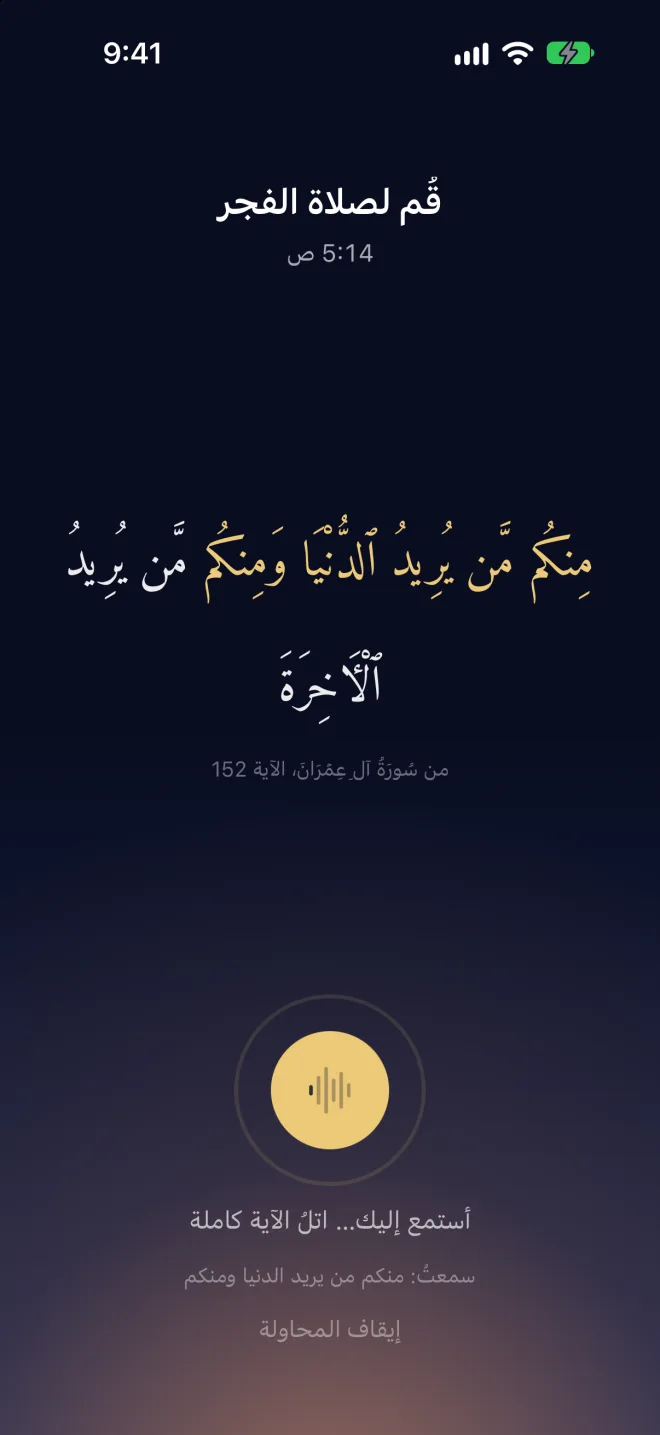
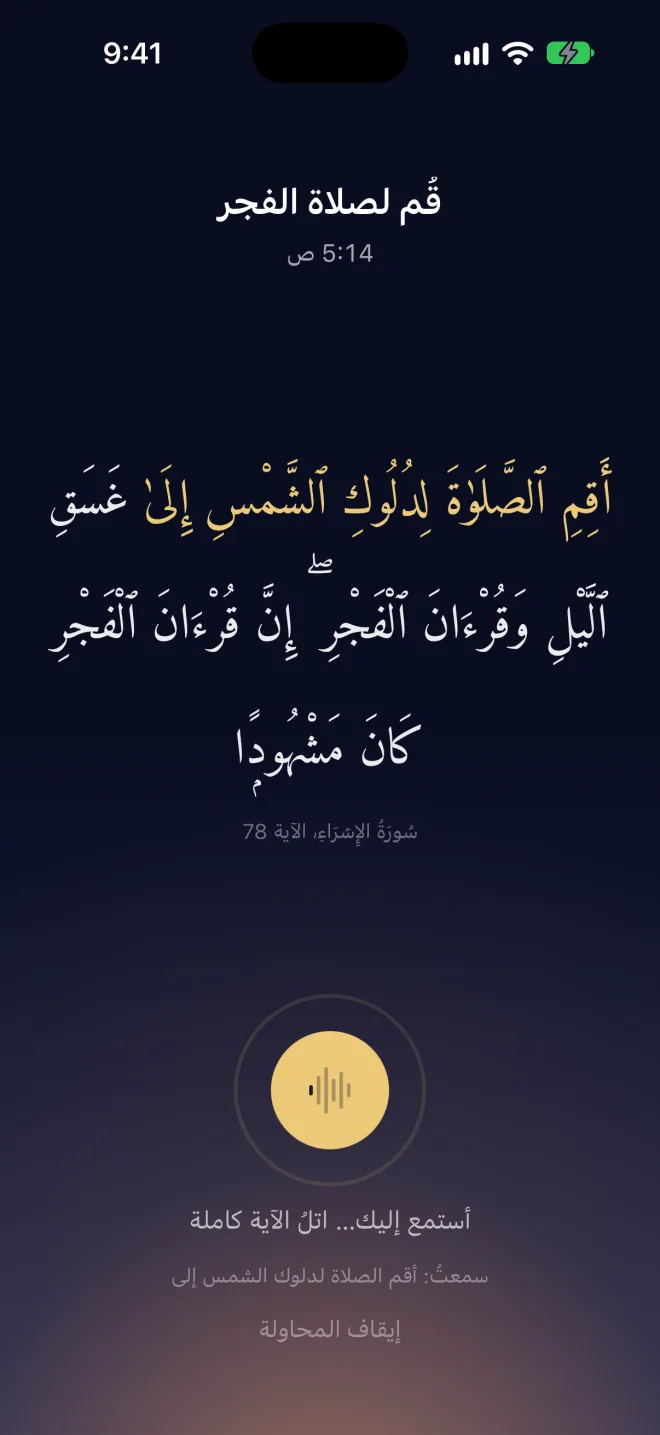
Show Al-Isra 78 in the alarm images and describe the wudu grace

diff --git a/support.html b/support.html
@@ -23,7 +23,7 @@
 <h3>كيف أغيّر طريقة حساب الوقت أو أعدّل الفجر بالدقائق؟</h3>
 <p>من إعدادات التطبيق، في قسم «وقت الفجر»: اختر «طريقة الحساب» المتّبعة في بلدك، أو عدّل وقت الفجر بالدقائق (حتى ١٥ دقيقة قبل أو بعد) ليوافق تقويم مسجدك.</p>
 <h3>كيف تعمل صورة السجّادة؟</h3>
-<p>صوّر سجّادة صلاتك مرة واحدة من الإعدادات لتُحفظ صورة مرجعية على هاتفك. إن تعذّرت التلاوة بعد ثلاث محاولات، يمكنك إيقاف المنبّه بتصوير سجّادتك، وتُقارَن الصورة بالمرجعية على الهاتف ثم تُهمَل.</p>
+<p>صوّر سجّادة صلاتك مرة واحدة من الإعدادات لتُحفظ صورة مرجعية على هاتفك. إن تعذّرت التلاوة بعد ثلاث محاولات، يمكنك إيقاف المنبّه بتصوير سجّادتك، وتُقارَن الصورة بالمرجعية على الهاتف ثم تُهمَل. وإن احتجت وقتًا لتقوم وتتوضّأ فاطلب «أمهلني خمس دقائق للوضوء»: يصمت المنبّه خمس دقائق مرة واحدة، ثم يعود إن لم تصوّر السجّادة.</p>
 <h3>لماذا يرنّ المنبّه مجدّدًا كل بضع دقائق؟</h3>
 <p>يُجدول التطبيق لكل صباح منبّهًا رئيسيًّا وعدة رنّات إضافية بعده بفواصل من بضع دقائق، حتى لا تفوتك الصلاة إن لم يُوقَف المنبّه. تتوقف عند إيقاف المنبّه بالتلاوة.</p>
 <h3>كيف أحذف بياناتي؟</h3>
@@ -41,7 +41,7 @@
 <h3>How do I change the calculation method or adjust Fajr by minutes?</h3>
 <p>In the app's settings, under the Fajr time section: choose the calculation method used in your country, or adjust Fajr by minutes (up to 15 earlier or later) to match your mosque's calendar.</p>
 <h3>How does the prayer-rug photo work?</h3>
-<p>Take a photo of your prayer rug once in Settings; it is saved on your phone as the reference. If reciting does not work after three attempts, you can stop the alarm by photographing your rug. The photo is compared with the reference on the phone and then discarded.</p>
+<p>Take a photo of your prayer rug once in Settings; it is saved on your phone as the reference. If reciting does not work after three attempts, you can stop the alarm by photographing your rug. The photo is compared with the reference on the phone and then discarded. If you need time to get up and make wudu first, ask for five quiet minutes: the alarm goes silent once for five minutes, then rings again if no rug photo was taken.</p>
 <h3>Why does the alarm ring again every few minutes?</h3>
 <p>Each morning the app schedules one main alarm plus several extra rings a few minutes apart, so you do not miss the prayer if the alarm is not stopped. They end when you stop the alarm by reciting.</p>
 <h3>How do I delete my data?</h3>

diff --git a/index.html b/index.html
@@ -224,7 +224,7 @@
   <div class="wrap narrow">
     <h2 class="reveal">أسئلة شائعة</h2>
     <details class="reveal"><summary>هل يجب أن أكون حافظًا أو مجوّدًا؟</summary><p>لا. الآية مكتوبة أمامك على الشاشة، ويكفي أن تقرأها كاملة بصوت واضح. يتسامح «قُم» مع الأخطاء اليسيرة ومع القراءة المتمهّلة.</p></details>
-    <details class="reveal"><summary>ماذا لو لم أستطع التلاوة؟</summary><p>بعد ثلاث محاولات يمكنك إيقاف المنبّه بتصوير سجّادة صلاتك التي حفظت صورتها في التطبيق. وإن لم تحفظ صورة، يظهر بعد محاولات أكثر زرّ يتوقّف به المنبّه بالضغط المطوّل نصف دقيقة.</p></details>
+    <details class="reveal"><summary>ماذا لو لم أستطع التلاوة؟</summary><p>بعد ثلاث محاولات يمكنك إيقاف المنبّه بتصوير سجّادة صلاتك التي حفظت صورتها في التطبيق، ولك أن تطلب خمس دقائق صامتة لتتوضّأ قبل التصوير. وإن لم تحفظ صورة، يظهر بعد محاولات أكثر زرّ يتوقّف به المنبّه بالضغط المطوّل نصف دقيقة.</p></details>
     <details class="reveal"><summary>كيف يُحسب ثلث الليل؟</summary><p>الليل من المغرب إلى الفجر، ويُقسم إلى ثلاثة أجزاء متساوية. يحسبها «قُم» لمدينتك كل ليلة، فيتغيّر موعد كل ثلث مع طول الليل.</p></details>
     <details class="reveal"><summary>هل منبّه قيام الليل إلزامي؟</summary><p>لا. هو متوقّف حتى تشغّله من الشاشة الرئيسية، ولا يؤثّر في منبّه الفجر ولا في أيامه المتتالية.</p></details>
     <details class="reveal"><summary>هل يرنّ والهاتف صامت؟</summary><p>نعم. يرنّ «قُم» منبّهًا من منبّهات النظام، فيُسمع في الوضع الصامت وفي وضع التركيز.</p></details>
